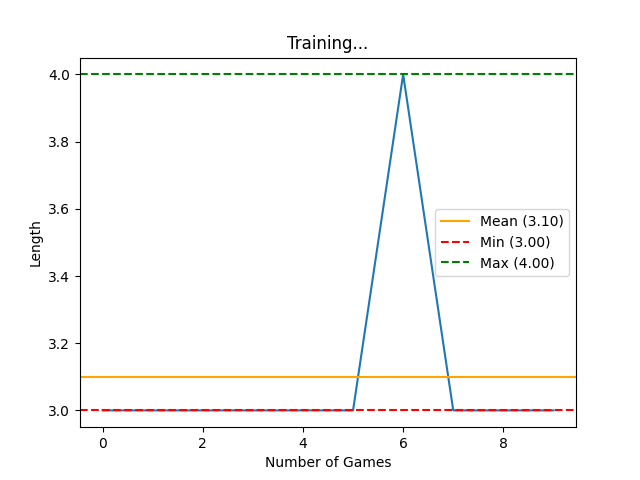
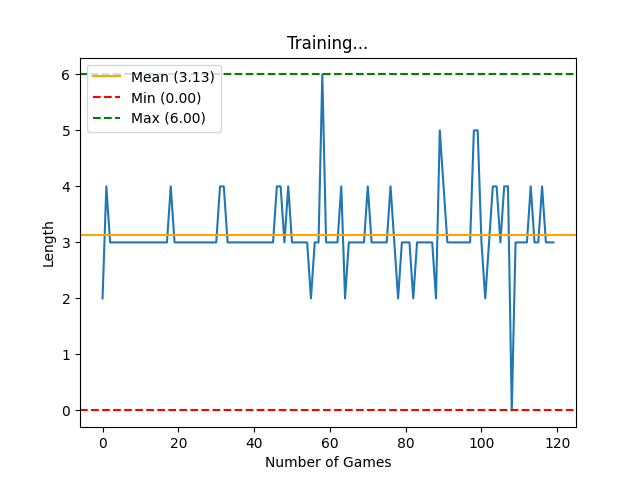
feat : fix infinite snake move
fix save model name

diff --git a/app.py b/app.py
@@ -59,7 +59,8 @@ def load_ai_config(args) -> AppConfig:
     app_config.ai.sessions = args.sessions
     app_config.ai.visual = args.visual
     app_config.ai.load_name = args.load if args.load else None
-    app_config.ai.save_name = args.save
+    if args.save and args.save != "q_table":
+        app_config.ai.save_name = args.save
     app_config.ai.learn = not args.dontlearn
     app_config.ai.step_by_step = args.step_by_step
     app_config.ai.agent_name = generate_id()
@@ -70,14 +71,16 @@ def load_ai_config(args) -> AppConfig:
         from ai.DeepQLearning_agent import DeepQAgent
         from ai.Snake_deep_trainer import SnakeDeepTrainer
         app_config.ai.agent = DeepQAgent(app_config.ai.agent_name,
-                                         app_config.ai.load_name)
+                                         app_config.ai.load_name,
+                                         app_config.ai.save_name)
         app_config.ai.trainer = SnakeDeepTrainer(app_config.ai.env,
                                                  app_config.ai.agent)
     else:
         from ai.Qlearning_agent import QLearningAgent
         from ai.Snake_trainer import SnakeTrainer
         app_config.ai.agent = QLearningAgent(app_config.ai.agent_name,
-                                             app_config.ai.load_name)
+                                             app_config.ai.load_name,
+                                             app_config.ai.save_name)
         app_config.ai.trainer = SnakeTrainer(app_config.ai.env,
                                              app_config.ai.agent)
     return app_config
@@ -94,9 +97,28 @@ def print_stats(config: AppConfig):
     stats_message += f"Mean length: {mean_length} "
     stats_message += f"in {config.ai.sessions} episodes"
     print(stats_message)
-    model_path = f"{c.MODELS_DIR}{config.ai.agent_name}"
+    if config.ai.save_name and config.ai.save_name != "q_table":
+        name = config.ai.save_name
+    else:
+        name = config.ai.agent_name
+    model_path = f"{c.MODELS_DIR}{name}"
     model_path += f"_{str(config.ai.sessions)}.pkl"
     print(f"{c.T_GREEN}Model saved as: {c.T_RESET}{model_path}")
+    scores, min_score, max_score = stats.get_sessions_scores(player)
+    plot_scores(scores, mean_length, min_score, max_score)
+
+
+def print_dontlearn_stats(config: AppConfig):
+    """ Prints statistics after AI evaluation is completed. """
+    stats = MyStats()
+    player = f"{config.ai.agent_name}-{config.ai.sessions}"
+    max_length, max_moves, mean_length = stats.get_sessions_stat(player)
+    stats_message = f"{c.T_GREEN}\nEvaluation completed: {c.T_RESET}"
+    stats_message += f"Max length: {max_length}, "
+    stats_message += f"Max moves: {max_moves} "
+    stats_message += f"Mean length: {mean_length} "
+    stats_message += f"in {config.ai.sessions} episodes"
+    print(stats_message)
     scores, min_score, max_score = stats.get_sessions_scores(player)
     plot_scores(scores, mean_length, min_score, max_score)
 
@@ -156,6 +178,7 @@ def main(argv: list[str] | None = None) -> int:
             else:
                 print(f"\nStarting evaluation for {args.sessions} episodes.\n")
                 config.ai.trainer.play(args.sessions)
+                print_dontlearn_stats(config)
     return 0
 
 

diff --git a/ai/Qlearning_agent.py b/ai/Qlearning_agent.py
@@ -11,8 +11,9 @@ DISCOUNT = 0.9
 
 
 class QLearningAgent:
-    def __init__(self, name, model=None):
+    def __init__(self, name, model=None, save_name=None):
         self.set_model_name(model)
+        self.save_name = save_name
         self.epsilon = EPSILON
         self.epsilon_decay = EPSILON_DECAY
         self.epsilon_min = EPSILON_MIN
@@ -81,8 +82,14 @@ class QLearningAgent:
         )
 
     def save_model(self, episodes=10):
-        with open(f"{c.MODELS_DIR}{self.name}_{episodes}.pkl", "wb") as file:
-            pickle.dump(self.q_table, file)
+        if self.save_name and self.save_name != "q_table":
+            with open(f"{c.MODELS_DIR}{self.save_name}_{episodes}.pkl",
+                      "wb") as file:
+                pickle.dump(self.q_table, file)
+        else:
+            with open(f"{c.MODELS_DIR}{self.name}_{episodes}.pkl",
+                      "wb") as file:
+                pickle.dump(self.q_table, file)
 
     def load_model(self, path: str = "q_table_10.pkl"):
         if not path.endswith(".pkl"):

diff --git a/ai/DeepQLearning_agent.py b/ai/DeepQLearning_agent.py
@@ -21,8 +21,9 @@ DEVICE = torch.device("cuda" if torch.cuda.is_available() else "cpu")
 
 
 class DeepQAgent:
-    def __init__(self, name, load_name=None):
+    def __init__(self, name, load_name=None, save_name=None):
         self.name = name
+        self.save_name = save_name
         self.set_model_name(load_name)
         self.epsilon = EPSILON
         self.gamma = DISCOUNT
@@ -113,4 +114,7 @@ class DeepQAgent:
 
     def save_model(self, episodes):
         """Saves the model's state dictionary to a file."""
-        self.model.save(f"{self.name}-{episodes}.pth")
+        if self.save_name and self.save_name != "q_table":
+            self.model.save(f"{self.save_name}-{episodes}.pth")
+        else:
+            self.model.save(f"{self.name}-{episodes}.pth")

diff --git a/ai/Snake_deep_trainer.py b/ai/Snake_deep_trainer.py
@@ -145,9 +145,6 @@ class SnakeDeepTrainer:
                 reward, done = self.env.step(action)
                 length = len(self.env.snake.body)
 
-                if self.env.move_count > length * 100:
-                    done = True
-
                 if not done:
                     next_state = self.get_state()
                 else:

diff --git a/game/snake_env.py b/game/snake_env.py
@@ -40,6 +40,9 @@ class SnakeEnv:
         reward += self.check_self_collision()
         reward += self.check_fruit_collision()
         self.move_count += 1
+        if self.move_count >= len(self.snake.body) * 100:
+            self.game_over = True
+            reward += c.DEATH_REWARD
         return reward, self.game_over
 
     def spawn_fruit(self, color: tuple[int, int, int]):